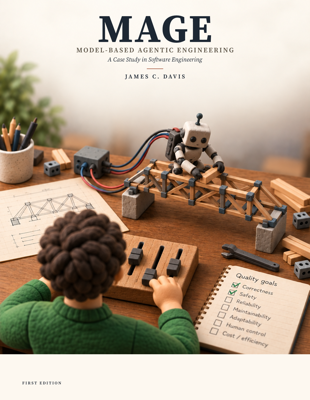
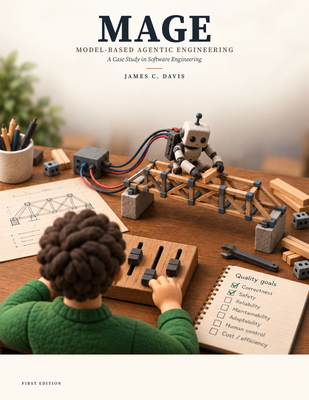
build(covers): derive both landing thumbnails from the Typst covers — one helper, always-regenerated by the ePub/handbook builds, CI-asserted (kills the stale-raster class)
Adds tools/cover_assets.py: one typst-cover->PNG render core + one Pillow
downscale, with mage/handbook providers and a regen CLI. The 4 producer call
sites (book_epub.py, handbook build.py epub + web, catalog.py deploy-local)
now ALWAYS regenerate rather than fill-if-missing, so a retitle can never
leave a stale baked raster. Deletes the two unreferenced *-OLD-cover-thumb.png
relics; adds hard _site cover-thumb assertions to the Pages assemble step.

Landed as variant (a') of the ratified SPEC: thumbs stay COMMITTED (not
gitignored) because catalog.py build runs book_mkdocs._copy_assets, which
fail-loud-requires the MAGE thumb, and in CI that build precedes the Pillow
install + book_epub.py that would derive it — so plan (b)'s gitignore would
red every fresh CI clone. Always-regenerate producers + CI-regenerate-before-
assemble keep the PUBLISHED thumb fresh either way; the gitignore posture can
be added later with an early CI regen step if desired.

diff --git a/tools/cover_assets.py b/tools/cover_assets.py
@@ -1,0 +1,128 @@
+"""Derive both landing cover thumbnails from the books' own Typst covers.
+
+manifest -> Typst cover -> full-res PNG -> Pillow downscale -> book/assets/<name>-thumb.png
+The thumbs are gitignored build artifacts (created, never committed) — same posture as
+mage-book.pdf. Regenerate on demand: python3 tools/cover_assets.py regen [mage|handbook|all]
+Requires: typst on PATH; Pillow (book/requirements-pdf.txt); PyYAML for the handbook cover.
+
+C3 invariant: no validate check or test may require these thumb files to exist — they are
+produced by the ePub/handbook build steps that run AFTER validate/build in CI. Keep it that way.
+"""
+import pathlib
+import shutil
+import subprocess
+import sys
+
+GC_ROOT   = pathlib.Path(__file__).resolve().parent.parent
+FONT_PATH = GC_ROOT / "book" / "fonts"          # both covers use the MAGE self-hosted faces
+ASSETS    = GC_ROOT / "book" / "assets"
+MAGE_THUMB     = ASSETS / "cover-thumb.png"
+HANDBOOK_THUMB = ASSETS / "handbook-cover-thumb.png"
+COVER_PPI    = 180                               # 1530x1980 on US-letter — both ePub renders' value
+THUMB_HEIGHT = 400                               # landing raster height; width follows cover aspect
+
+
+def render_cover_png(typ_source: str, out_png: pathlib.Path, *, root: pathlib.Path,
+                     font_path: pathlib.Path = FONT_PATH, ppi: int = COVER_PPI) -> pathlib.Path:
+    """The ONE typst-cover->PNG core: write out_png's sibling .typ, then `typst compile
+    --format png --ppi <ppi> --root <root> --font-path <font_path>`. Fail loud on rc!=0 or a
+    missing output (mirrors book_epub.py's error text incl. the install-typst hint)."""
+    typst = shutil.which("typst")
+    if not typst:
+        raise SystemExit("cover_assets: `typst` not found on PATH — the thumb render reuses the "
+                         "print cover (install typst, as the --pdf path requires)")
+    out_png.parent.mkdir(parents=True, exist_ok=True)
+    cover_typ = out_png.with_suffix(".typ")
+    cover_typ.write_text(typ_source, encoding="utf-8")
+    r = subprocess.run(
+        [typst, "compile", "--format", "png", "--ppi", str(ppi), "--root", str(root),
+         "--font-path", str(font_path), str(cover_typ), str(out_png)],
+        capture_output=True, text=True)
+    if r.returncode != 0 or not out_png.is_file():
+        raise SystemExit(f"cover_assets: cover Typst compile failed (rc={r.returncode}):\n{r.stderr}")
+    return out_png
+
+
+def write_thumb(cover_png: pathlib.Path, out_thumb: pathlib.Path, *,
+                height: int = THUMB_HEIGHT) -> pathlib.Path:
+    """Pillow downscale of a full-res cover PNG to the landing thumbnail (width follows the cover
+    aspect at the requested height). Guarded Pillow import, fail-loud pointing at the PDF toolset."""
+    try:
+        from PIL import Image  # noqa: E402 — the --pdf toolset (book/requirements-pdf.txt)
+    except ImportError:
+        raise SystemExit("cover_assets: Pillow missing — install book/requirements-pdf.txt (the "
+                         "cover downscale needs PIL.Image)")
+    im = Image.open(cover_png).convert("RGB")
+    w = round(im.width * height / im.height)
+    out_thumb.parent.mkdir(parents=True, exist_ok=True)
+    im.resize((w, height), Image.LANCZOS).save(out_thumb, "PNG", optimize=True)
+    return out_thumb
+
+
+def mage_cover_png(work_dir: pathlib.Path) -> pathlib.Path:
+    """MAGE provider: render the SAME titled Typst cover the print PDF opens with to a full-res PNG."""
+    book_dir = str(GC_ROOT / "book")
+    if book_dir not in sys.path:
+        sys.path.insert(0, book_dir)
+    import book_typst  # noqa: E402 — deferred: pulls the whole print emitter; cover-only use (book_epub.py:189)
+    book_typst._EmitCtx(GC_ROOT)
+    typ_source = book_typst._PREAMBLE + "\n" + book_typst._cover_typst() + "\n"
+    return render_cover_png(typ_source, work_dir / "epub-cover.png", root=GC_ROOT)
+
+
+def handbook_cover_png(work_dir: pathlib.Path, book: "dict | None" = None) -> pathlib.Path:
+    """Handbook provider: the same one-page hb-cover doc the handbook ePub build writes, rendered to
+    a full-res PNG. `book` defaults to handbook/book.yaml (guarded PyYAML import)."""
+    if book is None:
+        try:
+            import yaml  # noqa: E402 — the handbook toolset (PyYAML); guarded fail-loud below
+        except ImportError:
+            raise SystemExit("cover_assets: PyYAML missing — the handbook cover reads "
+                             "handbook/book.yaml (pip install pyyaml)")
+        with open(GC_ROOT / "handbook" / "book.yaml", encoding="utf-8") as fh:
+            book = yaml.safe_load(fh)
+    # Titles carry no `"` today; keep build.py's existing f-string quoting verbatim (no escaper here).
+    typ_source = "\n".join([
+        '#import "/typst/cover.typ": hb-cover',
+        "#hb-cover(",
+        f'  title: "{book["title"]}",',
+        f'  subtitle: "{book["subtitle"]}",',
+        f'  author: "{book["author"]}",',
+        ")",
+        "",
+    ])
+    return render_cover_png(typ_source, work_dir / "cover.png", root=GC_ROOT / "handbook")
+
+
+def regen_mage_thumb(work_dir: pathlib.Path = GC_ROOT / "book" / "_typst") -> pathlib.Path:
+    return write_thumb(mage_cover_png(work_dir), MAGE_THUMB)
+
+
+def regen_handbook_thumb(work_dir: pathlib.Path = GC_ROOT / "handbook" / "generated" / "epub",
+                         book: "dict | None" = None) -> pathlib.Path:
+    return write_thumb(handbook_cover_png(work_dir, book), HANDBOOK_THUMB)
+
+
+def _regen(which: str) -> int:
+    if which not in ("mage", "handbook", "all"):
+        print("usage: python3 tools/cover_assets.py regen [mage|handbook|all]", file=sys.stderr)
+        return 1
+    try:
+        if which in ("mage", "all"):
+            p = regen_mage_thumb()
+            print(f"wrote {p} ({p.stat().st_size} bytes)")
+        if which in ("handbook", "all"):
+            p = regen_handbook_thumb()
+            print(f"wrote {p} ({p.stat().st_size} bytes)")
+    except SystemExit as e:                      # fail-loud message -> nonzero exit, no traceback
+        print(e, file=sys.stderr)
+        return 1
+    return 0
+
+
+if __name__ == "__main__":
+    argv = sys.argv[1:]
+    if not argv or argv[0] != "regen":
+        print("usage: python3 tools/cover_assets.py regen [mage|handbook|all]", file=sys.stderr)
+        sys.exit(1)
+    sys.exit(_regen(argv[1] if len(argv) > 1 else "all"))

diff --git a/handbook/scripts/build.py b/handbook/scripts/build.py
@@ -33,6 +33,9 @@ from typing import NamedTuple
 import _common as C
 import lint as linter
 
+sys.path.insert(0, str(C.GC_ROOT / "tools"))
+import cover_assets  # noqa: E402 — the ONE typst-cover->PNG + thumb helper (repo-root tools/)
+
 PDF_OUT = C.DIST / "software-engineering-handbook.pdf"
 EPUB_OUT = C.DIST / "software-engineering-handbook.epub"
 # Standalone per-unit PDFs (one per front-matter unit, chapter, and back-matter unit), published
@@ -364,19 +367,9 @@ def _epub_cover_png(book: dict) -> C.pathlib.Path:
     `hb-cover` reuses the real cover (artwork + live type) verbatim, so the ePub cover can never
     drift from the PDF's. 180 ppi on a US-letter page → 1530×1980 px, comfortably above e-reader
     cover-view resolution without bloating the container."""
-    cover_typ = GEN_EPUB / "cover.typ"
-    cover_png = GEN_EPUB / "cover.png"
-    cover_typ.write_text("\n".join([
-        '#import "/typst/cover.typ": hb-cover',
-        "#hb-cover(",
-        f'  title: "{book["title"]}",',
-        f'  subtitle: "{book["subtitle"]}",',
-        f'  author: "{book["author"]}",',
-        ")",
-        "",
-    ]), encoding="utf-8")
-    _run(["typst", "compile", "--format", "png", "--ppi", "180", str(cover_typ), str(cover_png),
-          "--root", str(C.HANDBOOK), "--font-path", str(C.FONT_PATH)])
+    cover_png = cover_assets.handbook_cover_png(GEN_EPUB, book)
+    # Refresh the landing thumbnail from the SAME render — the retitle-drift class dies here too.
+    cover_assets.write_thumb(cover_png, cover_assets.HANDBOOK_THUMB)
     print(f"  epub   ← cover.png (titled cover, {cover_png.stat().st_size // 1024} KiB)")
     return cover_png
 
@@ -522,10 +515,13 @@ def build_web(book: dict) -> None:
     # Assets the generated Markdown references, copied under the MkDocs docs_dir.
     shutil.copytree(C.FIGURES, GEN_WEB / "figures")
     shutil.copytree(C.WEB_SRC / "css", GEN_WEB / "css")
-    # The handbook's rendered COVER (title lockup + artwork — the same thumbnail the catalogue landing's
-    # handbook card uses; assets/cover-artwork.png is only the art-window LAYER the Typst cover
-    # composites). Copied under docs_dir so MkDocs ships it and the home page's <img> resolves as a
-    # sibling at the published /book/se-handbook/ depth. Cross-repo read like FONT_PATH for the PDF faces.
+    # The handbook's rendered COVER (title lockup + artwork; assets/cover-artwork.png is only the
+    # art-window LAYER the Typst cover composites). The thumb is now DERIVED from the Typst cover at
+    # build time and gitignored (created, never committed) — so self-regen it here before the copy: a
+    # standalone `build.py web` run can then never ship a stale or missing thumb. Copied under docs_dir
+    # so MkDocs ships it and the home page's <img> resolves as a sibling at the published
+    # /book/se-handbook/ depth. Cross-repo read like FONT_PATH for the PDF faces.
+    cover_assets.regen_handbook_thumb(book=book)
     shutil.copy2(C.GC_ROOT / "book" / "assets" / "handbook-cover-thumb.png", GEN_WEB / "cover-thumb.png")
     # Browser-tab favicon: the two-pan balance-scales rust badge (theme.favicon in web/mkdocs.yml
     # resolves against docs_dir, so the file must land in GEN_WEB).

diff --git a/book/book_epub.py b/book/book_epub.py
@@ -51,8 +51,6 @@ import html.entities
 import json
 import pathlib
 import re
-import shutil
-import subprocess
 import sys
 import xml.etree.ElementTree as ET
 import zipfile
@@ -63,6 +61,8 @@ ROOT = HERE.parent                                  # catalogue root
 sys.path.insert(0, str(HERE))
 import build_book    # noqa: E402 — the canonical build; this emitter projects its page records
 import book_mkdocs   # noqa: E402 — shared nav grouping + the cn-follow note-marker helper
+sys.path.insert(0, str(ROOT / "tools"))
+import cover_assets  # noqa: E402 — the ONE typst-cover->PNG + thumb helper (repo-root tools/)
 
 _EPUB_FILENAME = build_book._PDF_FILENAME[: -len(".pdf")] + ".epub"  # mage-book.epub — one stem, per edition suffix
 EPUB_OUT = HERE / _EPUB_FILENAME
@@ -186,23 +186,9 @@ def _render_cover_jpg(work_dir: pathlib.Path) -> bytes:
     the TITLED cover, not the bare art layer) to a one-page PNG, then recompress it to JPEG (the
     artwork is photographic; PNG would quadruple the container). 180 ppi on a US-letter page ->
     1530x1980 px, comfortably above e-reader cover-view resolution."""
-    import book_typst  # noqa: E402 — deferred: pulls the whole print emitter; cover-only use
-    book_typst._EmitCtx(ROOT)
-    typst = shutil.which("typst")
-    if not typst:
-        raise SystemExit("book_epub: `typst` not found on PATH — the cover render reuses the print "
-                         "cover (install typst, as the --pdf path requires)")
-    work_dir.mkdir(parents=True, exist_ok=True)
-    cover_typ = work_dir / "epub-cover.typ"
-    cover_png = work_dir / "epub-cover.png"
-    cover_typ.write_text(book_typst._PREAMBLE + "\n" + book_typst._cover_typst() + "\n",
-                         encoding="utf-8")
-    r = subprocess.run(
-        [typst, "compile", "--format", "png", "--ppi", "180", "--root", str(ROOT),
-         "--font-path", str(HERE / "fonts"), str(cover_typ), str(cover_png)],
-        capture_output=True, text=True)
-    if r.returncode != 0 or not cover_png.is_file():
-        raise SystemExit(f"book_epub: cover Typst compile failed (rc={r.returncode}):\n{r.stderr}")
+    cover_png = cover_assets.mage_cover_png(work_dir)
+    # Refresh the landing thumbnail from the SAME render — a retitle can never leave a stale raster.
+    cover_assets.write_thumb(cover_png, cover_assets.MAGE_THUMB)
     try:
         from PIL import Image  # noqa: E402 — the --pdf toolset (book/requirements-pdf.txt)
     except ImportError:

diff --git a/catalog.py b/catalog.py
@@ -5410,6 +5410,15 @@ def cmd_deploy(args) -> int:
             return 1
 
     if args.target == "local":
+        # Best-effort regen of the landing cover thumbnails (gitignored, build-derived from the Typst
+        # covers) so the local preview's landing shows the CURRENT titles. Needs typst + Pillow; on
+        # failure print a notice and continue (mirrors the site/.venv graceful-degrade just below —
+        # catalog.py stays stdlib-only, the Pillow/PyYAML imports live in the subprocess'd tool).
+        if subprocess.run([sys.executable, os.path.join("tools", "cover_assets.py"), "regen"],
+                          cwd=ROOT).returncode:
+            print("\n  (cover thumbs not regenerated — landing may show a stale/missing cover; "
+                  "needs typst + Pillow.)")
+
         # The MAGE book web edition serves from the MkDocs-built tree at its PUBLISHED path
         # (/book/mage-book/ ← book/web/site). Building it needs the pinned site/.venv toolchain —
         # the same posture as the handbook/teach web editions (catalog.py itself stays stdlib-only):

diff --git a/book/book_mkdocs.py b/book/book_mkdocs.py
@@ -410,7 +410,9 @@ def _copy_assets(docs: pathlib.Path, bodies: dict[str, str], css: str) -> list[s
     for rel in refs:
         src = HERE / rel
         if not src.is_file():
-            raise SystemExit(f"book_mkdocs: page body references missing asset {src}")
+            raise SystemExit(
+                f"book_mkdocs: page body references missing asset {src} — a cover thumbnail is "
+                f"generated by `python3 tools/cover_assets.py regen` (needs typst + Pillow)")
         dst = docs / rel
         dst.parent.mkdir(parents=True, exist_ok=True)
         shutil.copy(src, dst)
